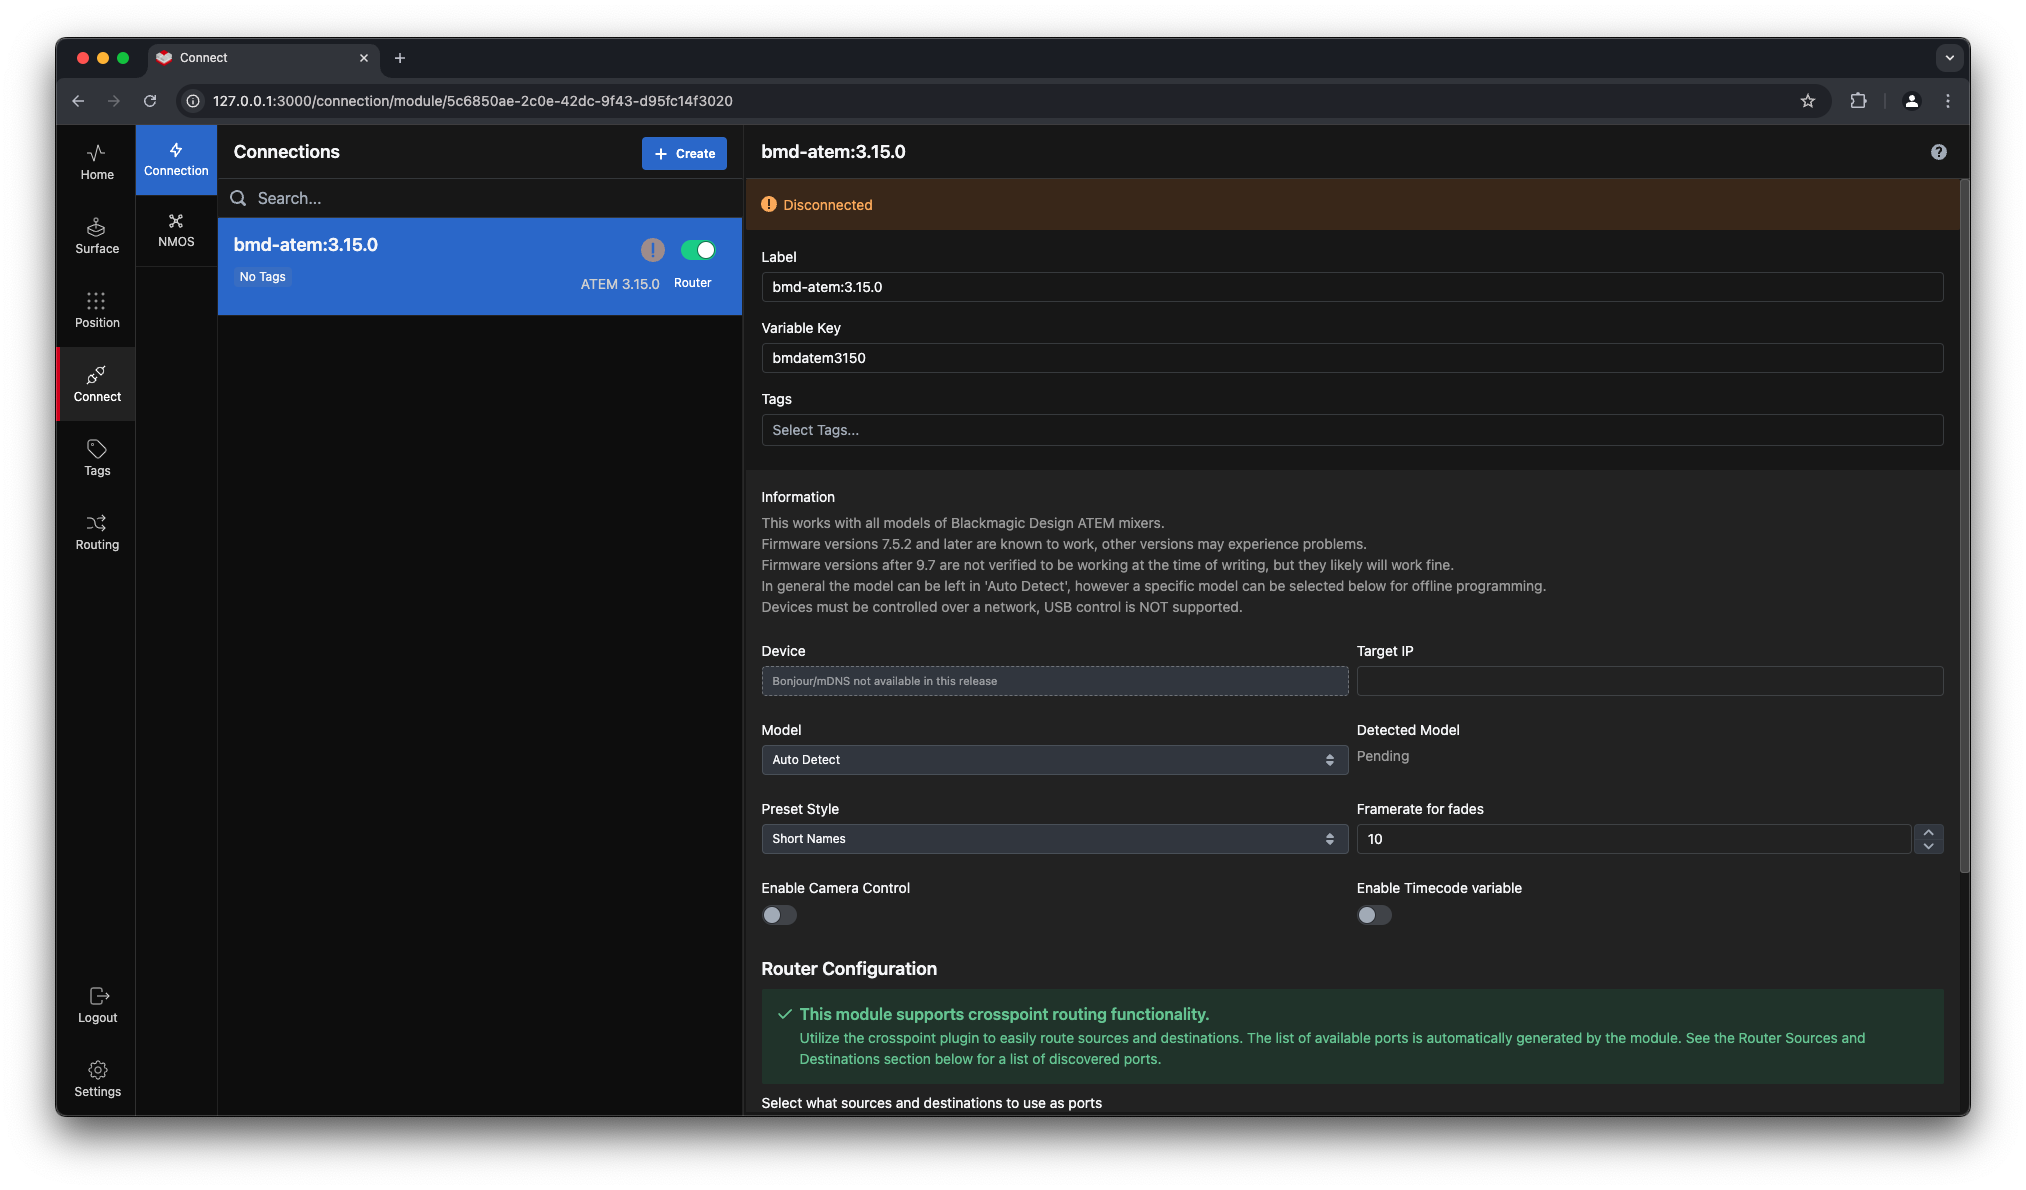
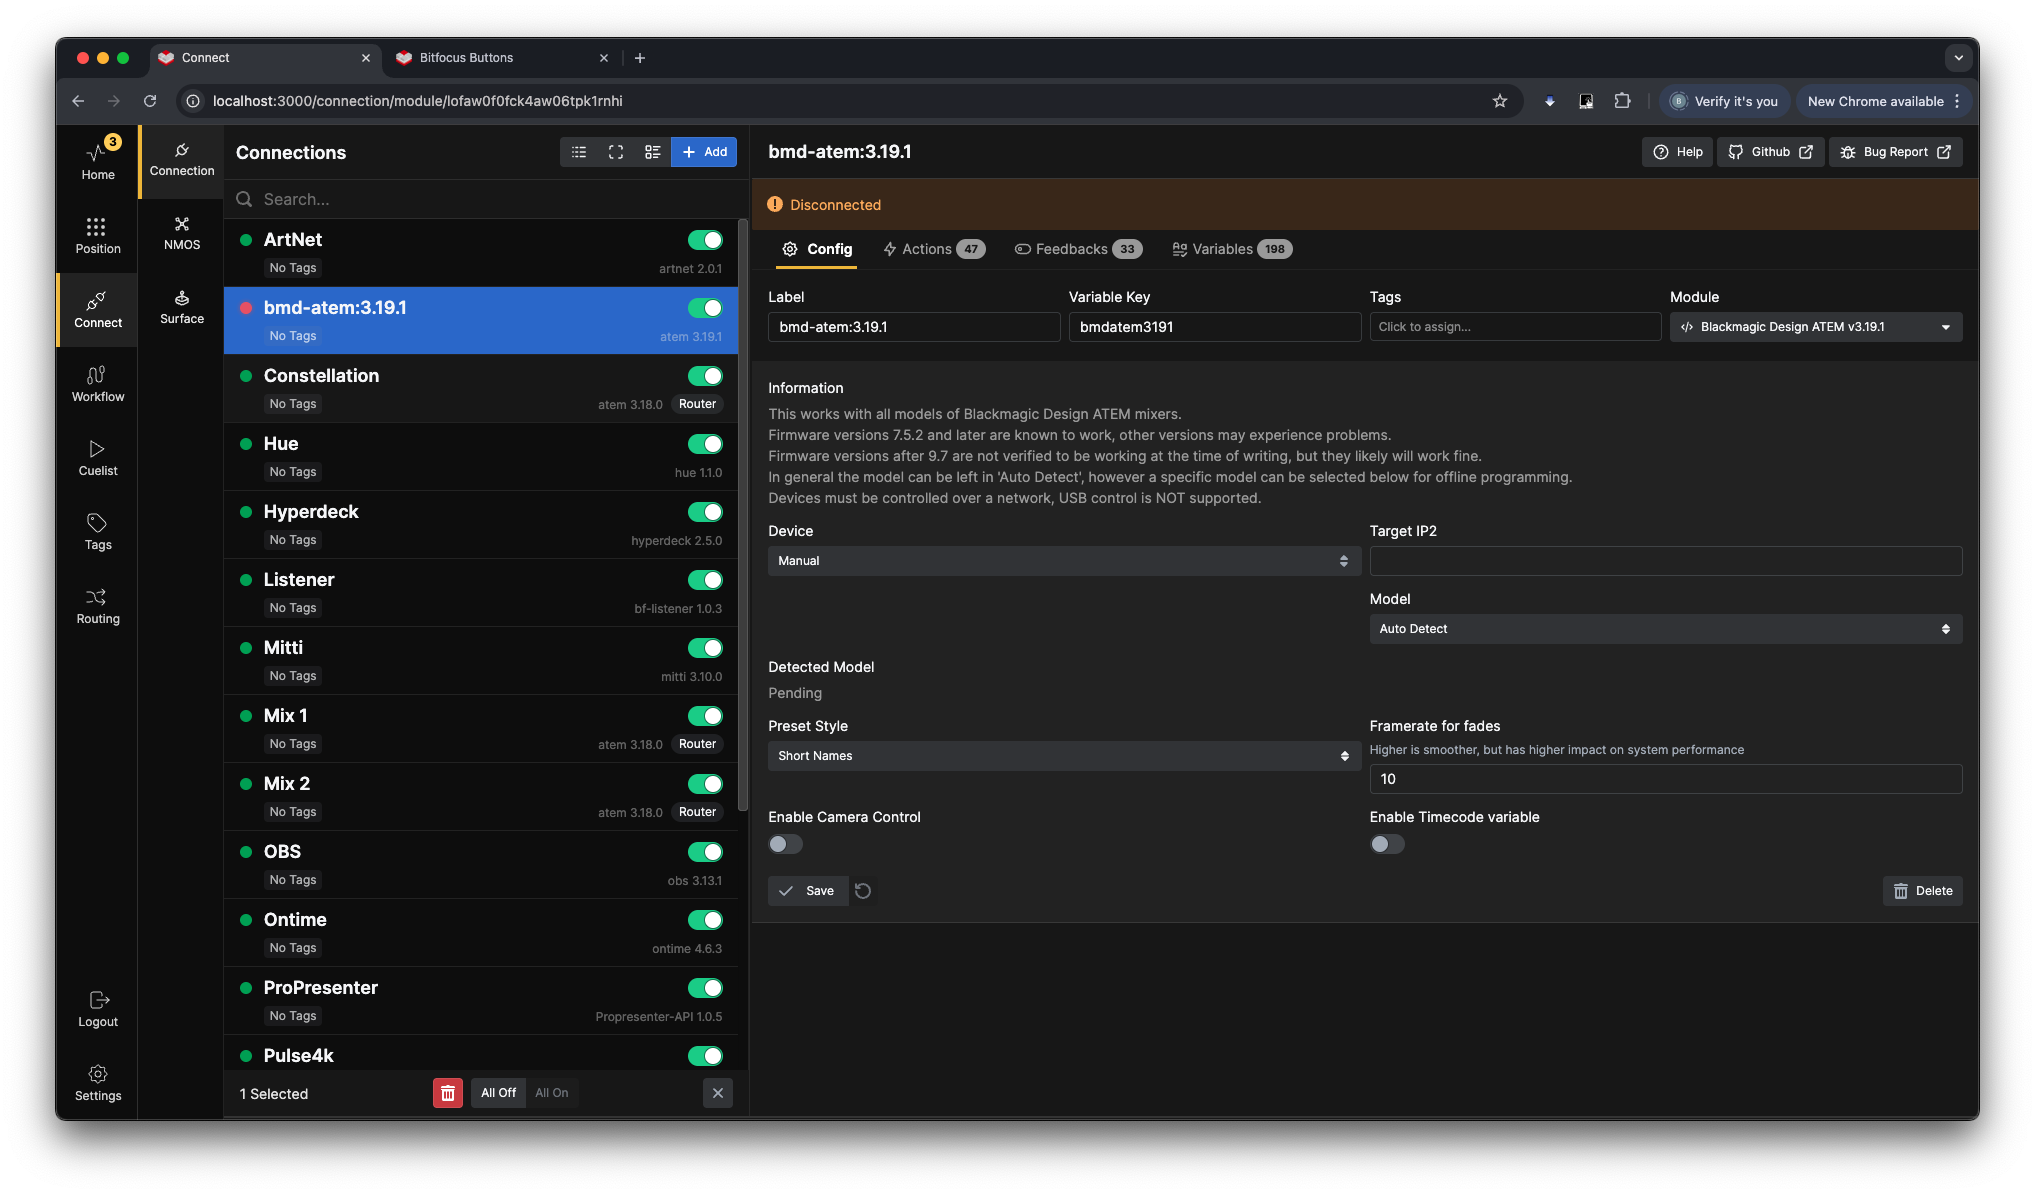
Updated Connections

diff --git a/docs/3_connect/1_connect.md b/docs/3_connect/1_connect.md
@@ -1,15 +1,20 @@
-**This Document is outdated and will be updated shortly.**
+
+**Connection** is where we link **Buttons** to the outside world: switchers, routers, software, hardware, and other imaginable (and unimaginable) options.  
+
+![Connection window](images/connection_1.png)
 
 
-**Connect** is where we link **Buttons** to the outside world: switchers, routers, software, hardware, and other imaginable (and unimaginable) options.  
-![alt text](images/empty_connect.png)
 
-### Adding Connections
+To start adding **Connection**, click the **+Add** button in the top-right corner of the left pane. This will display an extensive list of possible connections.  
 
-To start adding `Connections`, click the `+Create` button in the top-right corner of the left pane. This will display an extensive list of possible connections.  
+If no connections are visible, or you can't find the right module. You may need to update the library. To do this, click *Download modules* in the top-right corner. 
+![Refresh](images/refresh.png)
 
-If no connections are visible, you may need to update the library. To do this, click `Refresh module versions` in the top-right corner of the right pane. Ensure you are online, as this process fetches the library from Bitfocus's servers. The download duration depends on your connection speed.  
-![refresh](images/refresh.png)
+This will bring up a popup box showing you the modules that are missing from your library or have newer versions.
+
+![Upgrade modules ](images/upgrade_modules.png)
+
+Ensure you are online, as this process fetches the library from Bitfocus's servers. The download duration depends on your connection speed and the number of modules that will be downloaded.
 
 Once the download is complete, you can search for the desired connection. Search by Manufacturer, product line, or protocol. Generic connections can also be found by searching for the "generic" phrase.  
 ![Create](images/create_1.png)
@@ -17,47 +22,88 @@ Once the download is complete, you can search for the desired connection. Search
 ### Connection Details
 
 Each connection comes with a version dropdown and several informational badges.  
+
 ![Router Badge](images/router_badge.png)
 
-**Router Badge**: Indicates that the connection supports the Router system in Buttons. To filter the connections list for Router-supported options, click `Only Routers` at the top of the list.  
+**Router Badge**: Indicates that the connection supports the Router system in Buttons. To filter the connections list for Router-supported options, click *Only Routers* at the top of the list.  
+
 ![Legacy Badge](images/legacy_badge.png)
 
 **Legacy Badge**: Indicates that the connection does not adhere to the latest API standards. While it may work, some features might be unavailable or non-functional.  
+
+![Pre-Release](images/pre_release.png)
+
+**Pre-release badge:** Indicates that the developer has released a test version of the module, and it may lack functionality or contain bugs.
+
 ![Version nr.](images/version_nr.png)
 
 **Version Dropdown**: Allows you to select between different versions of the connection as the library evolves.
 
+![Available versions](images/available_versions.png)
+
+You can also click the cogwheel to see and download other versions of the module. 
+
 ### Adding a Blackmagic Design - ATEM Connection
 
-To add the latest version of the `Blackmagic Design - ATEM` connection, click the `Add` button beside the version dropdown.
+To add the latest version of the *Blackmagic Design - ATEM* connection, click the **Add** button.
 
-Upon adding, a warning badge might appear. This indicates the connection is not fully configured yet (e.g., the IP address is missing) or there’s an issue such as a power or network problem.  
-![disconnected](images/disconected.png)
+
 
 ### Configuring Connections
 
-In the right pane of the connection page, you’ll find all configuration options for the selected connection. The most crucial step is entering the IP address. Some connections support MDNS to automatically discover devices, but it’s good practice to know the connection settings beforehand.
+In the right pane of the connection page, you’ll find all configuration options for the selected connection. 
 
-For Router-compatible connections, you'll have common configurations to select inputs and outputs for the router function. Additionally, you can access helpful information provided by the connection author via the `Question mark` icon in the top-right corner.  
 ![Add module](images/add_module.png)
 
-Once configured, the top row will indicate "connected," and the warning badge will disappear. Expandable options at the bottom of the screen display available *Router sources and destinations*, *Variables* and *Actions* for the module.  
-![Connected ATEM](images/conected_atem.png)  
-![Expanded Variable](images/expanded_variable.png)
+Some connections support MDNS to automatically discover devices, but its good practice to know the connection settings beforehand. You can also enter the IP address for the connection manually. Its good practice to give each connection a clear and descriptive Label and Variable Key, so it's easy to recognize at a later stage.
 
-You are now ready to use the new connection in a position setup.
+![Add Module](images/add_module_2.png)
 
----
+Under **Module** in the top right corner you can see the current module version in use for this connection, and by clicking on it you can bring up a dialog box allowing you to swap the module versions.
 
-### NMOS
+![Swap version](images/swap_version.png)
 
-Under the **NMOS** section in the left pane of the connection page, you can find and set up NMOS devices available on your network.  
-![NMOS](images/nmos.png)
+In addition to the Config View, you can also get an overview of the Actions available in the connection
 
-If NMOS devices on your network announce themselves, they will appear and be available to connect to Buttons. If they are on another network segment or fail to appear, you can manually create the connection by clicking the `+Manual create` button. You’ll need the IP address and Port of the device.  
-![Nmos Manual](images/nmos_manual.png)
+![Action overview](images/action_overview.png)
 
-Provide a Name, IP address, and Port number. For instance, a Blackmagic Design 2110 IP Video Converter 3x3G with IP `10.141.20.1` and port `8090`.  
-![Nmos Conected](images/nmos_conected.png)
+There is also an overview of the available Feedbacks. 
 
-The NMOS connection is now ready for use in Buttons and will be available in the `Router Section` and on the `Routing Page`.
+![Feedback overview](images/feedback_overview.png)
+
+And Variables.
+
+![Variable overview](images/variable_overview.png)
+
+Under Ports & Bundles you will get an overview over what will be added to the Router system in Buttons 
+
+![Ports 6 Bundles overview](images/ports_and_bundles_overview.png)
+
+![Module Info](images/module_info.png)
+
+These buttons will allow you to navigate to Github to post a bug report or navigate to the repository. The help button will bring up the help file written by the module author.
+
+![Module Help](images/module_help.png)
+
+The Connection view option buttons 
+
+![Connection View Options](images/connection_view_options.png)
+  
+- The first button will turn on the Log view, giving you opportunities to debug the connection.
+- The second button will toggle between compact and detailed view
+- The third button will allow you to group and sort the connections by tags
+
+![Log view](images/log_view.png)
+
+Logview.
+
+![Minimized](images/minimized_view.png) ![maximized](images/maximized_view.png)
+
+Minimized and Maximized view
+
+![Group View](images/group_view.png)
+
+Grouping options
+
+We have now had a look at the different options for 1 module, there will be a lot of differences between the modules, but the main functionality will be the same. Take some time to familiarize yourself with the different options for the modules you will be using.
+

diff --git a/docs/2_positions/8_router.md b/docs/2_positions/8_router.md
@@ -153,13 +153,13 @@ Gives you options for the **Auto Matching** under the **Auto** button in the Rou
 
 ![Available Sources and Destinations](images/router/inspector/available_sources_destinations.png)  
 
-The Router Section will by default show all available Sources and Destinations in the configurations, by adding **Tags.** In these boxes you can limit which Sources and Destinations are available for the **Router Section.**
+The Router Section will by default show all available Sources and Destinations in the configurations. By adding **Tags** In these boxes you can limit which Sources and Destinations are available for the **Router Section.**
 
 **User Filters:**  
 
 ![User Filters](images/router/inspector/user_filters.png)  
 
-By Default Buttons will use the Auto Generated filters in every **Router Section.** You can add your own, or remove any of the Auto Generated Filters.  
+By Default, Buttons will use the Auto Generated filters in every **Router Section.** You can add your own, or remove any of the Auto Generated Filters.  
 If you remove all of them, the **Filter Buttons** in the Router Section will also be removed.
 
 **Labels and Label Strategy:**  
